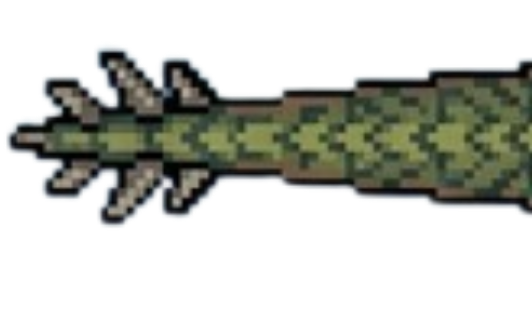
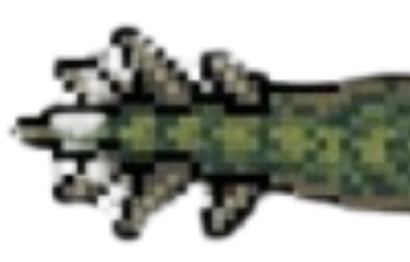
Add serpent corner images and dungeon dialogue background
- Added directional corner images for serpent turns
- Implemented corner detection logic for smooth serpent curves
- Corners appear when serpent changes direction (e.g., moving up then turning right)
- Added dungeon-dialog-background.png for level 5 dialogue screen
- Fixed image naming to match actual files (dungeon-dialog vs dungeon-dialogue)
- Serpent now displays correctly with head/body/tail/corner pieces based on direction

diff --git a/game.js b/game.js
@@ -63,6 +63,12 @@ let goblinGrottoBackgroundLoaded = false;
 goblinGrottoBackgroundImage.onload = () => {
     goblinGrottoBackgroundLoaded = true;
 };
+const dungeonDialogueBackgroundImage = new Image();
+dungeonDialogueBackgroundImage.src = 'dungeon-dialog-background.png';
+let dungeonDialogueBackgroundLoaded = false;
+dungeonDialogueBackgroundImage.onload = () => {
+    dungeonDialogueBackgroundLoaded = true;
+};
 const iceGoblinImage = new Image();
 iceGoblinImage.src = 'ice-goblin-above.png';
 let iceGoblinLoaded = false;
@@ -163,6 +169,23 @@ const serpentBodyLeftImage = new Image();
 serpentBodyLeftImage.src = 'serpent-body-left.png';
 const serpentBodyRightImage = new Image();
 serpentBodyRightImage.src = 'serpent-body-right.png';
+// Corner images
+const serpentCornerUpLeftImage = new Image();
+serpentCornerUpLeftImage.src = 'serpent-corner-up-left.png';
+const serpentCornerUpRightImage = new Image();
+serpentCornerUpRightImage.src = 'serpent-corner-up-right.png';
+const serpentCornerDownLeftImage = new Image();
+serpentCornerDownLeftImage.src = 'serpent-corner-down-left.png';
+const serpentCornerDownRightImage = new Image();
+serpentCornerDownRightImage.src = 'serpent-corner-down-right.png';
+const serpentCornerLeftLeftImage = new Image();
+serpentCornerLeftLeftImage.src = 'serpent-corner-left-left.png';
+const serpentCornerLeftRightImage = new Image();
+serpentCornerLeftRightImage.src = 'serpent-corner-left-right.png';
+const serpentCornerRightLeftImage = new Image();
+serpentCornerRightLeftImage.src = 'serpent-corner-right-left.png';
+const serpentCornerRightRightImage = new Image();
+serpentCornerRightRightImage.src = 'serpent-corner-right-right.png';
 // Tail images
 const serpentTailUpImage = new Image();
 serpentTailUpImage.src = 'serpent-tail-up.png';
@@ -773,6 +796,10 @@ function drawDialogueScreen() {
     else if (currentDialogueBackground === 'level4' && goblinGrottoBackgroundLoaded) {
         backgroundImage = goblinGrottoBackgroundImage;
         imageLoaded = goblinGrottoBackgroundLoaded;
+    }
+    else if (currentDialogueBackground === 'level5' && dungeonDialogueBackgroundLoaded) {
+        backgroundImage = dungeonDialogueBackgroundImage;
+        imageLoaded = dungeonDialogueBackgroundLoaded;
     }
     else if (currentDialogueBackground === 'complete' && mangoAndHippoLoaded) {
         backgroundImage = mangoAndHippoImage;
@@ -3388,24 +3415,59 @@ class RunicTowerLevel {
                     serpentImage = serpentTailLeftRightImage; // default
                 }
             } else {
-                // Body: determine direction by looking at segment in front of it (towards head)
+                // Body: check if this is a corner piece or straight segment
                 const prevSegment = this.dragon.segments[i - 1];
+                const nextSegment = this.dragon.segments[i + 1];
                 
-                if (segment.row < prevSegment.row) {
-                    // Body segment is above the previous one, facing down
-                    serpentImage = serpentBodyDownImage;
-                } else if (segment.row > prevSegment.row) {
-                    // Body segment is below the previous one, facing up
-                    serpentImage = serpentBodyUpImage;
-                } else if (segment.col < prevSegment.col) {
-                    // Body segment is left of the previous one, facing right
-                    serpentImage = serpentBodyRightImage;
-                } else if (segment.col > prevSegment.col) {
-                    // Body segment is right of the previous one, facing left
-                    serpentImage = serpentBodyLeftImage;
+                // Determine direction the serpent was TRAVELING (from next to current)
+                let comingFrom = '';
+                if (segment.row < nextSegment.row) comingFrom = 'up';      // came from below (moving up)
+                else if (segment.row > nextSegment.row) comingFrom = 'down'; // came from above (moving down)
+                else if (segment.col < nextSegment.col) comingFrom = 'left';  // came from right (moving left)
+                else if (segment.col > nextSegment.col) comingFrom = 'right'; // came from left (moving right)
+                
+                // Determine direction the serpent is GOING (from current to previous)
+                let goingTo = '';
+                if (prevSegment.row < segment.row) goingTo = 'up';      // going up
+                else if (prevSegment.row > segment.row) goingTo = 'down'; // going down
+                else if (prevSegment.col < segment.col) goingTo = 'left';  // going left
+                else if (prevSegment.col > segment.col) goingTo = 'right'; // going right
+                
+                // Check if this is a corner (direction changes)
+                if (comingFrom !== goingTo && comingFrom && goingTo) {
+                    // This is a corner piece
+                    // Map based on: moving [direction] then turns [left/right]
+                    
+                    // Moving right then turns left (up) or right (down)
+                    if (comingFrom === 'right' && goingTo === 'up') serpentImage = serpentCornerRightLeftImage;
+                    else if (comingFrom === 'right' && goingTo === 'down') serpentImage = serpentCornerRightRightImage;
+                    
+                    // Moving down then turns left (right) or right (left)
+                    else if (comingFrom === 'down' && goingTo === 'right') serpentImage = serpentCornerDownLeftImage;
+                    else if (comingFrom === 'down' && goingTo === 'left') serpentImage = serpentCornerDownRightImage;
+                    
+                    // Moving left then turns left (down) or right (up)
+                    else if (comingFrom === 'left' && goingTo === 'down') serpentImage = serpentCornerLeftLeftImage;
+                    else if (comingFrom === 'left' && goingTo === 'up') serpentImage = serpentCornerLeftRightImage;
+                    
+                    // Moving up then turns left (left) or right (right)
+                    else if (comingFrom === 'up' && goingTo === 'left') serpentImage = serpentCornerUpLeftImage;
+                    else if (comingFrom === 'up' && goingTo === 'right') serpentImage = serpentCornerUpRightImage;
+                    
+                    else {
+                        // Fallback to straight body piece
+                        if (comingFrom === 'up') serpentImage = serpentBodyUpImage;
+                        else if (comingFrom === 'down') serpentImage = serpentBodyDownImage;
+                        else if (comingFrom === 'left') serpentImage = serpentBodyLeftImage;
+                        else serpentImage = serpentBodyRightImage;
+                    }
                 } else {
-                    // Default fallback
-                    serpentImage = serpentBodyRightImage;
+                    // Straight segment - use regular body piece based on travel direction
+                    if (comingFrom === 'up') serpentImage = serpentBodyUpImage;
+                    else if (comingFrom === 'down') serpentImage = serpentBodyDownImage;
+                    else if (comingFrom === 'left') serpentImage = serpentBodyLeftImage;
+                    else if (comingFrom === 'right') serpentImage = serpentBodyRightImage;
+                    else serpentImage = serpentBodyRightImage; // default
                 }
             }
             
@@ -3497,6 +3559,9 @@ function startLevel(levelIndex) {
     }
     else if (levelIndex === 3) {
         currentDialogueBackground = 'level4'; // Use Goblin Grotto background
+    }
+    else if (levelIndex === 4) {
+        currentDialogueBackground = 'level5'; // Use Dungeon dialogue background
     }
     else {
         currentDialogueBackground = 'intro'; // Use hippo-hero for other levels
